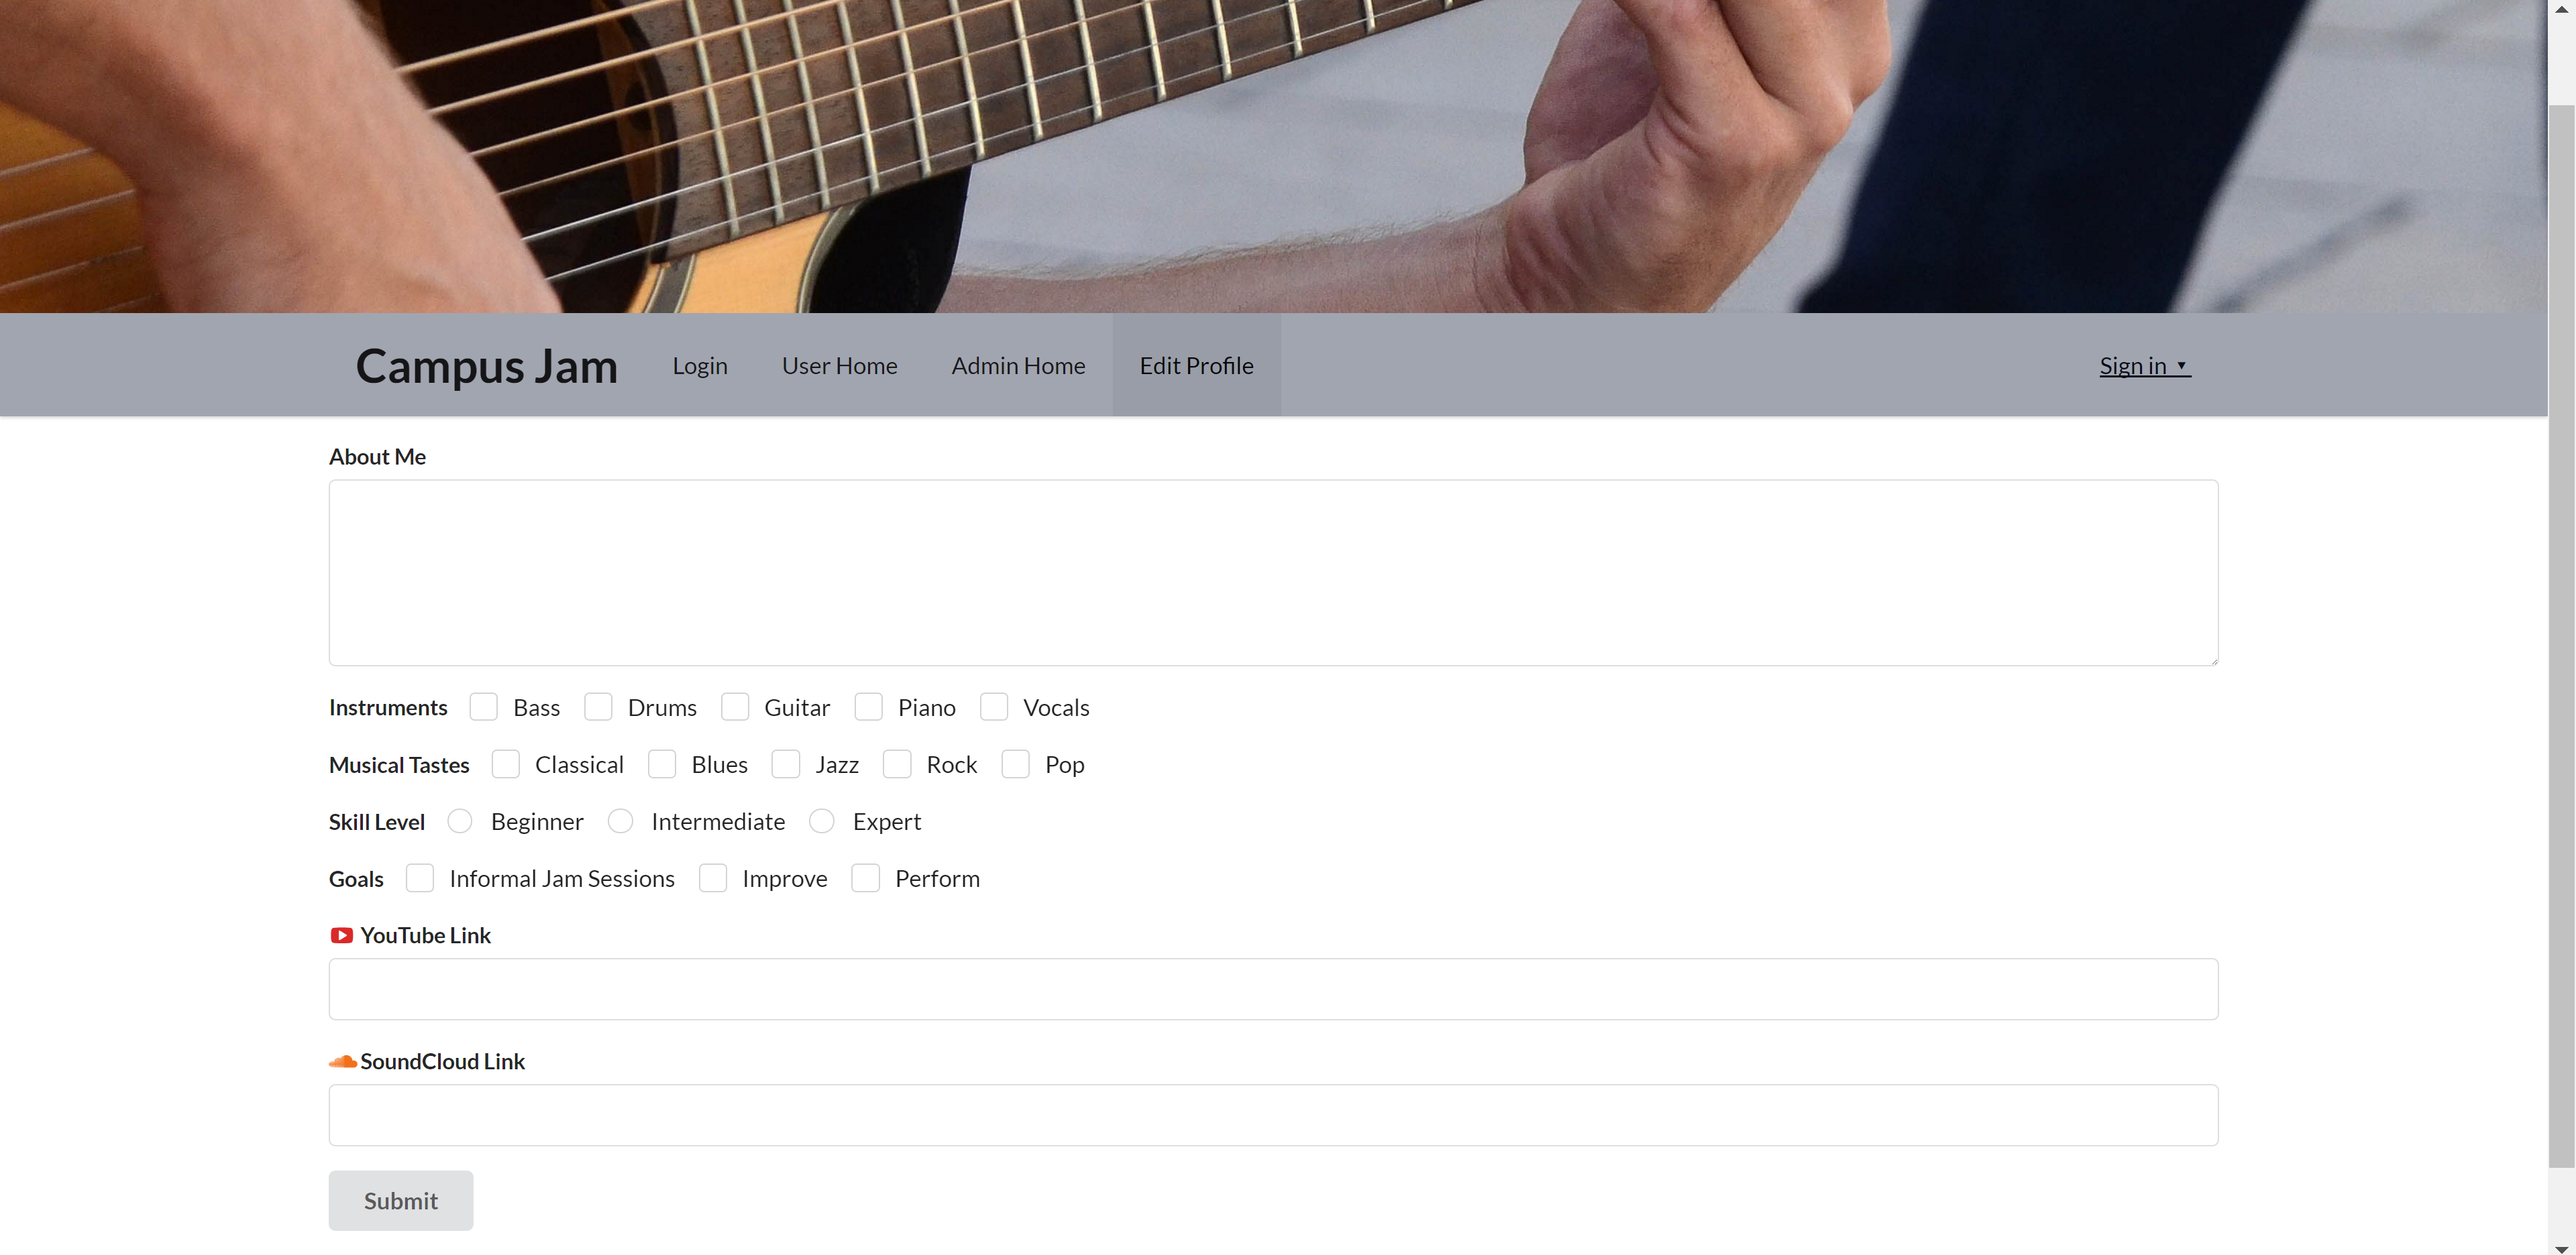
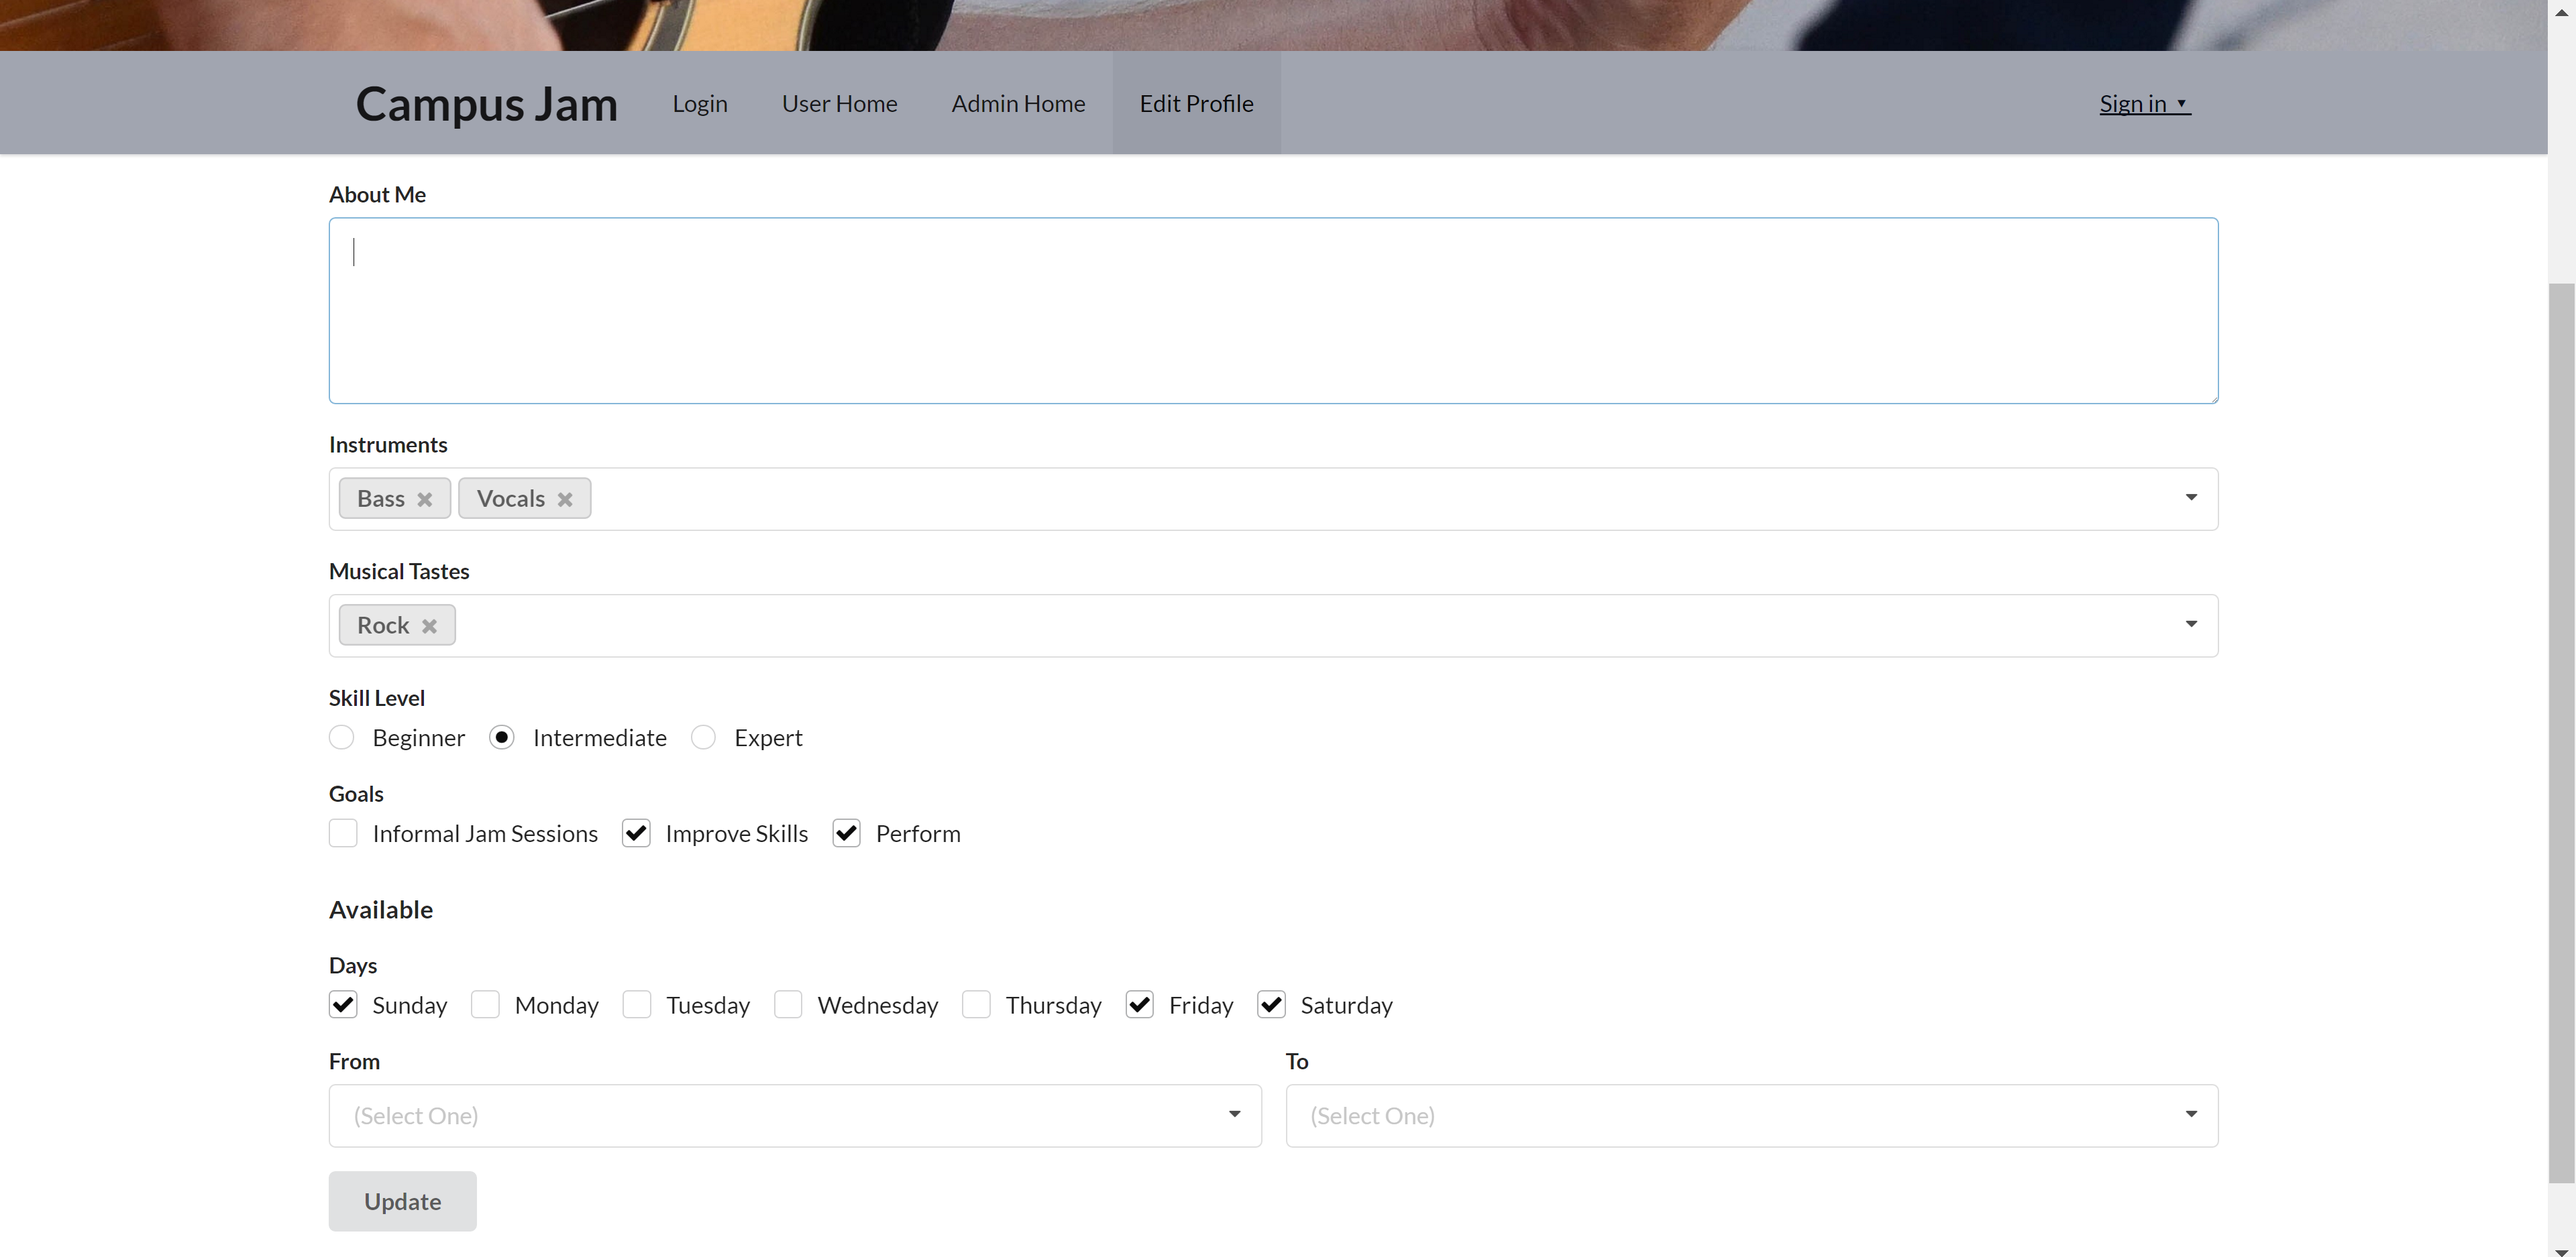
Put YouTube and SoundCloud fields back
Accidentally removed two fields in the new edit profile page mockup.
This is why we read carefully before deleting segments of code. And why
we publish branches.

diff --git a/app/imports/ui/pages/edit-profile-page.html b/app/imports/ui/pages/edit-profile-page.html
@@ -23,6 +23,16 @@
         {{> Select_Form_Control label="To" required=false options=times errorMessage=(fieldError "to") }}
       </div>
 
+      <div class="field">
+        <label><i class="red youtube play icon"></i>YouTube Link</label>
+        <input type="text" name="youtube">
+      </div>
+
+      <div class="field">
+        <label><i class="orange soundcloud icon"></i>SoundCloud Link</label>
+        <input type="text" name="soundcloud">
+      </div>
+
       <button class="ui button" type="submit">Update</button>
 
     </form>

diff --git a/README.md b/README.md
@@ -25,4 +25,4 @@ This is what an admin would see when first logged in. There is a space for the a
 
 Edit Profile Page:
 ![6](https://raw.githubusercontent.com/cassandra-largosa/final-project-mockup/master/doc/edit-profile-page-mockup.png)
-The page to edit the profile. A user can provide YouTube and SoundCloud links to showcase their musical talents. The instruments and musical tastes lists will probably change to dropdown menus since those lists will become significantly longer. For the purposes of the mockup the edit profile page is accessible though the menu without logging in, however in the final version it will only be accessible when a user is logged in.
+The page to edit the profile. A user can provide YouTube and SoundCloud links to showcase their musical talents. For the purposes of the mockup the edit profile page is accessible though the menu without logging in, however in the final version it will only be accessible when a user is logged in.
